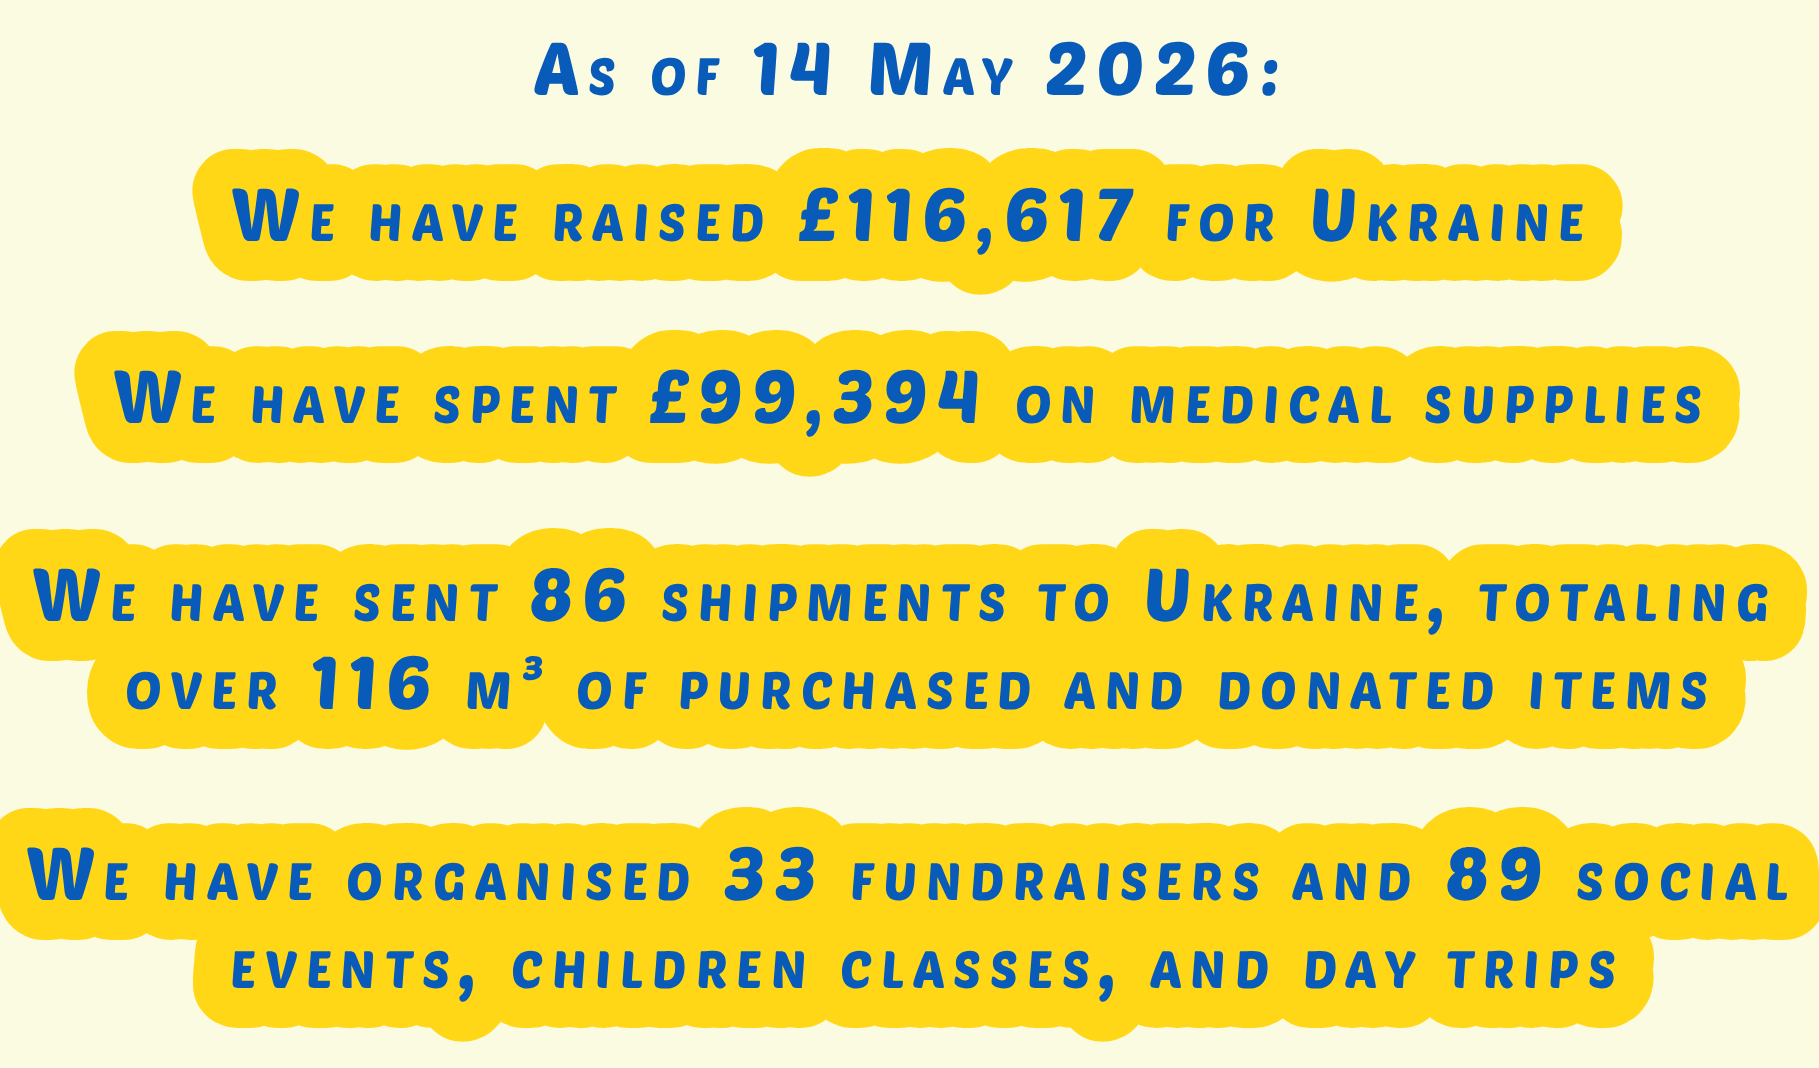
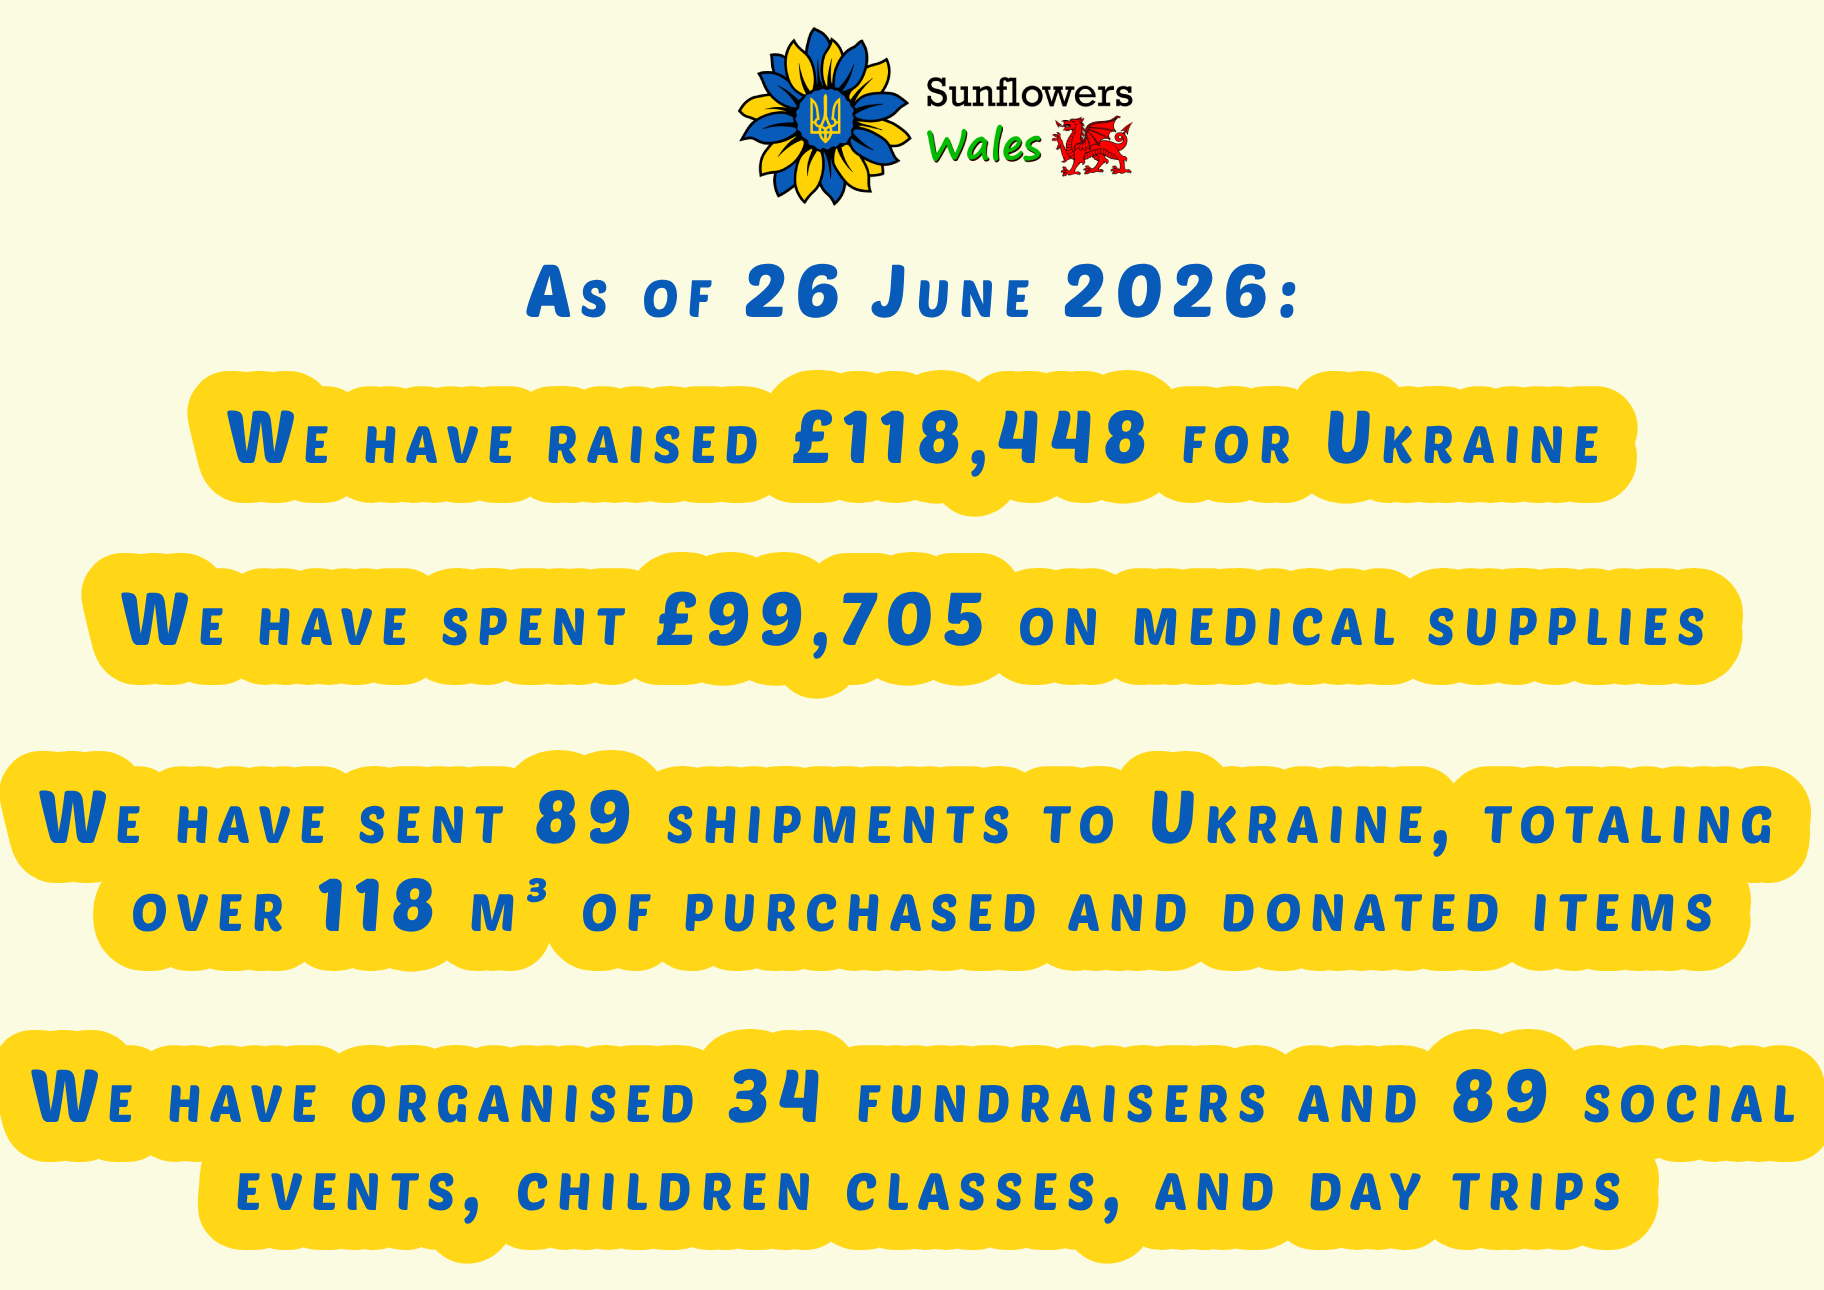
June 2026

diff --git a/content/reports/reports.md b/content/reports/reports.md
@@ -19,6 +19,24 @@ design:
     color: 'var(--bg)'
 ---
 
+<h4>March – June 2026 </h4>
+
+<h5>Total money income: £3,100.87</h5>
+
+* Donations to our accounts: £3,100.87
+
+<h5>Total spending: £3,984.27</h5>
+
+* Deliveries to Ukraine: £3,565.29, namely,
+
+  + Medical supplies: £2,199.29
+
+  + Delivery costs (ca. 6 m<sup>3</sup>): £1,366
+
+* Funding used: £418.98
+
+<br/>
+
 <h4>November 2025 – February 2026 </h4>
 
 <h5>Total money income: £4,746.80</h5>
